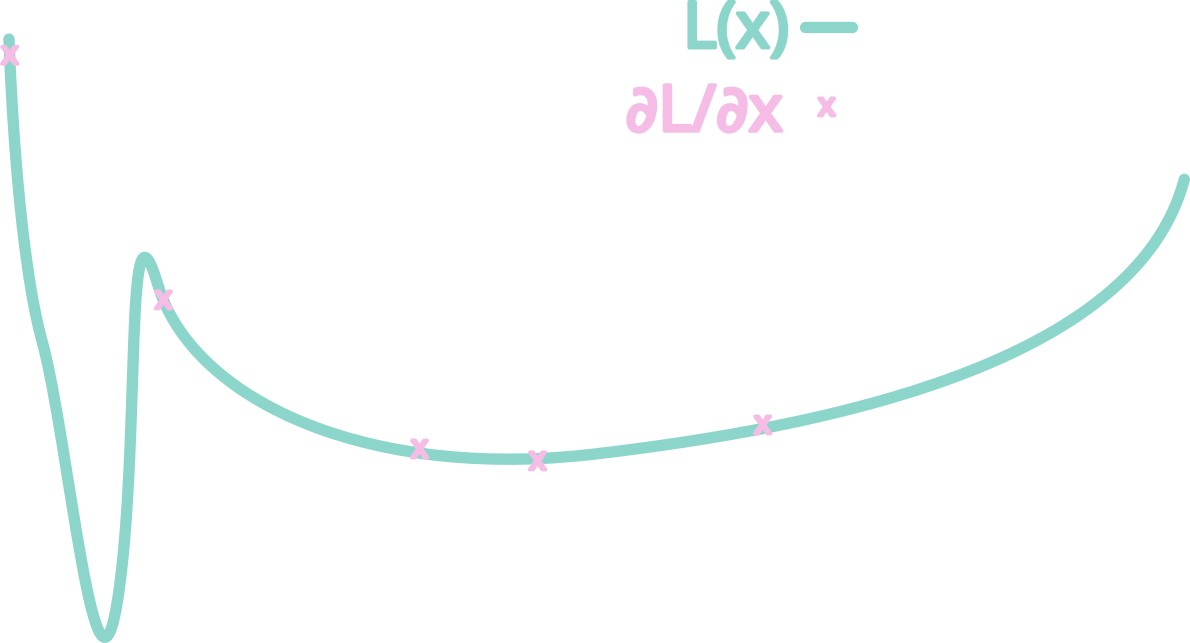
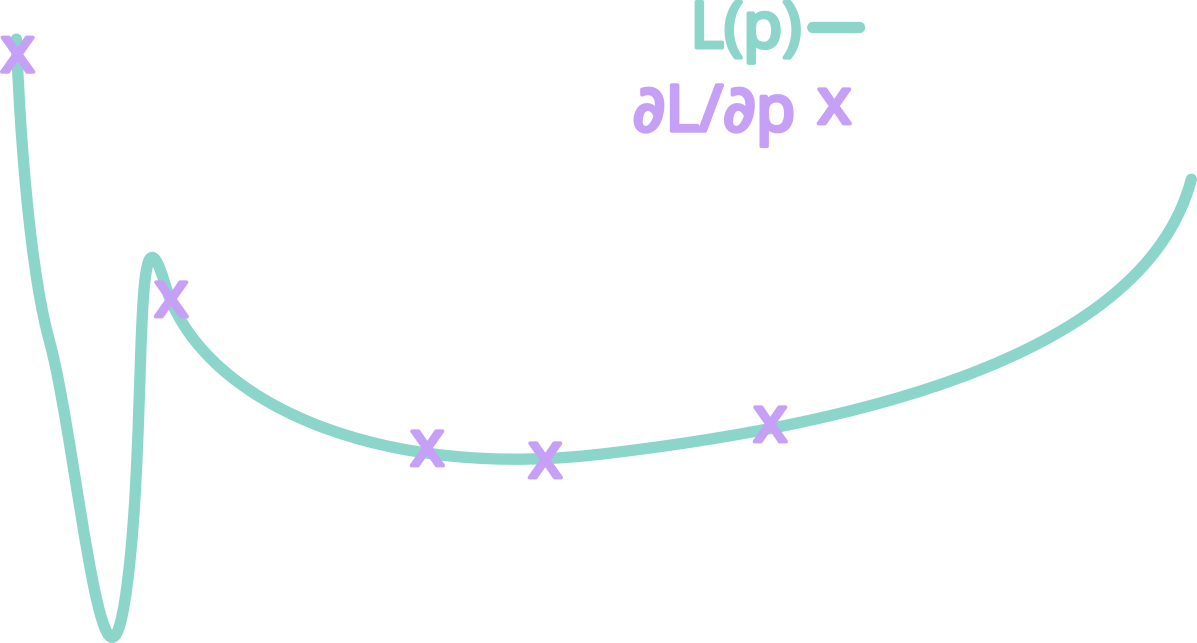
tweak propagation slide

diff --git a/slides.md b/slides.md
@@ -1540,6 +1540,7 @@ $
 <!-- column: 1 -->
 ![image:width:100%](img/phew.gif)
 
+<!-- pause -->
 <!-- reset_layout -->
 <!-- alignment: center -->
 blog post by Andrew M Holmes: [](huggingface.co/blog/andmholm/what-is-automatic-differentiation)
@@ -1567,26 +1568,26 @@ How to propagate the loss' gradients?
 <!-- column_layout: [1, 1, 1] -->
 
 <!-- column: 0 -->
-Recap `y => L`:
+Recap with `y => L` at iteration `i`:
 
 ```typst +render +width:80%
 $
-w = 0.1, #h(0.5em) macron(w) = frac(∂ L, ∂ w) = 1.6 \
-b = -0.1, #h(0.5em) macron(b) = frac(∂ L, ∂ b) = 0.8 \
-c = 3, #h(0.5em) macron(c) = frac(∂ L, ∂ c) = 0.5
+w_i = 0.1, #h(0.5em) macron(w_i) = frac(∂ L, ∂ w_i) = 1.6 \
+b_i = -0.1, #h(0.5em) macron(b_i) = frac(∂ L, ∂ b_i) = 0.8 \
+c_i = 3, #h(0.5em) macron(c_i) = frac(∂ L, ∂ c_i) = 0.5
 $
 ```
 <!-- pause -->
 Gradient direction:
 ```typst +render +width:80%
 $
-frac(∂ L, ∂ p) > 0, #h(0.5em) arrow.tr p #h(0.5em) => #h(0.5em) arrow.tr L
+frac(∂ L, ∂ p) > 0, #h(0.5em) p arrow.tr #h(0.5em) => #h(0.5em) L arrow.tr
 $
 ```
 <!-- pause -->
 ```typst +render +width:80%
 $
-frac(∂ L, ∂ p) < 0, #h(0.5em) arrow.br p #h(0.5em) => #h(0.5em) arrow.br L
+frac(∂ L, ∂ p) < 0, #h(0.5em) p arrow.br #h(0.5em) => #h(0.5em) L arrow.br
 $
 ```
 
@@ -1594,8 +1595,9 @@ $
 we introduce a `-1` factor as a result
 
 <!-- column: 1 -->
+<!-- pause -->
+Learning rate `η`:
 <!-- incremental_lists: true -->
-- learning rate `η`
 - the step size at each iteration towards the min loss
 - to what extent new info overrides old info
 - speed at which the network learns
@@ -1605,10 +1607,11 @@ we introduce a `-1` factor as a result
 ![image:width:100%](img/lr_high.png)
 
 <!-- column: 2 -->
+Delta `Δ`:
 ```typst +render +width:80%
 $
-Delta p = -1 dot eta dot frac(∂ L, ∂ p) \
-p_(i + 1) = p_(i) + Delta p
+Delta p_i = -1 dot eta dot frac(∂ L, ∂ p_i) \
+p_(i + 1) = p_(i) + Delta p_i
 $
 ```
 
